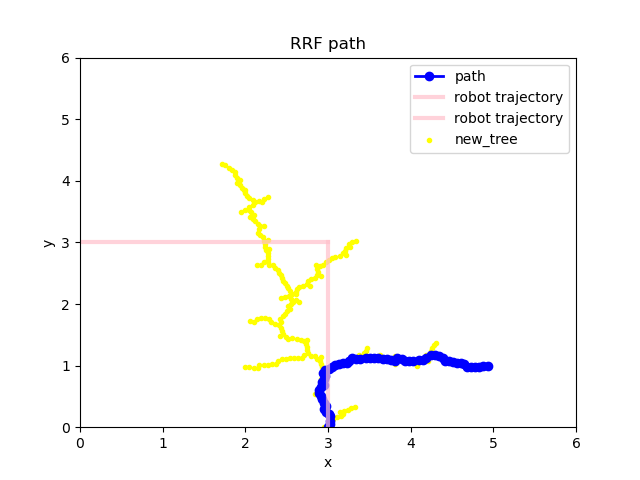
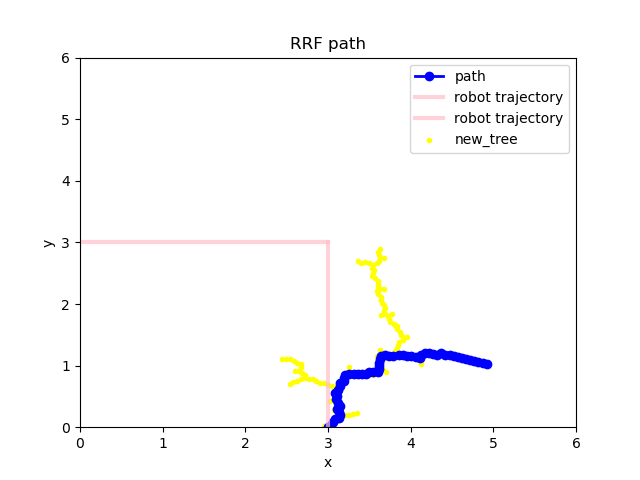
fix RRT* and update plots

Changed region(s): [[0.3438, 0.3438, 0.7812, 0.9062]]

diff --git a/tree_lib.py b/tree_lib.py
@@ -83,7 +83,7 @@ class Tree():
         self.node_list.append(child_node)
         self.coord_list.append(list(child_node.x))
         self.added_nodes.append(child_node)
-        # self.update_subtree(child_node, forest)
+        self.update_subtree(child_node, forest)
 
     def update_subtree(self, node, forest=None):
         if len(node.child_list) == 0:
@@ -96,22 +96,20 @@ class Tree():
                     child.v = new_car.v
                     child.theta = new_car.theta
                     child.cost = node.cost + distance
-                    self.node_list.append(child)
-                    self.coord_list.append(list(child.x))
-                    self.added_nodes.append(list(child.x))
+                    # self.node_list.append(child)
+                    # self.coord_list.append(list(child.x))
+                    # self.added_nodes.append(child)
                     self.update_subtree(child, forest)
                 except:
-                    if forest is None:
-                        if child.id != -1:
-                            self.remove_connection(node, child)
-                            self.remove_subtree(child)
+                    if child.id != -1:
+                        self.remove_connection(node, child)
+                        self.remove_subtree(child)
                     else:
                         continue
+                    continue
     
     def remove_connection(self, parent_node, child_node):
         parent_node.child_list.remove(child_node)
-        if child_node not in self.node_list:
-            print(f"child node with id {child_node.id} not in list. It is at {child_node.x}")
         self.node_list.remove(child_node)
         self.coord_list.remove(list(child_node.x))
         child_node.parent = None 
@@ -122,9 +120,6 @@ class Tree():
         # self.remove_connection(node.parent, node)
         for child in node.child_list:
             if child.id == -1:
-                continue
-            if child not in self.node_list:
-                print(f"child node with id {child.id} not in list. It is at {child.x}")
                 continue
             self.node_list.remove(child)
             self.coord_list.remove(list(child.x))
@@ -188,9 +183,9 @@ def random_config(tree, final_points, robot_state, check_goal=True, neighbourhoo
     p = random()                                                                            
     if check_goal and p <= constants.goal_prob:
         rand_node = Node(x = choice(final_points))                                                                                                                                                             
-    elif neighbourhood is not None and p <= constants.neigh_prob:
-        rand_choice = np.random.choice(neighbourhood)
-        rand_node = Node(x = rand_choice.x)
+    # elif neighbourhood is not None and p <= constants.neigh_prob:
+    #     rand_choice = np.random.choice(neighbourhood)
+    #     rand_node = Node(x = rand_choice.x)
     else:
         x_coord = round(uniform(0, constants.dimension_field[0]), 2)
         y_coord = round(uniform(0, constants.dimension_field[1]), 2)

diff --git a/RRFtest.py b/RRFtest.py
@@ -34,7 +34,7 @@ def plot_forest(forest, path = None):
 
     plt.xlabel('x')
     plt.ylabel('y')
-    plt.title('RRF path')
+    plt.title('Dynamic Path Planner')
     plt.legend()
     plt.show()
 
@@ -115,9 +115,9 @@ def RRF(robot_state, end_y, type="path"):
             plot_forest(forest)
 
 
-        if path is not None:
-            path_list.append(path.copy())
-        tree_list.append(new_tree.coord_list.copy())
+        # if path is not None:
+        #     path_list.append(path.copy())
+        # tree_list.append(new_tree.coord_list.copy())
         robot_state += constants.robot_velocity
     return tree_list, path_list, time_array
 
@@ -194,9 +194,9 @@ def RRFsim(robot_state, forest):
 
 if __name__ == "__main__":
     n_test = 10
-    end_y = 1.8
-    avg_time_path = np.zeros(9)
-    avg_time_tree = np.zeros(9)
+    end_y = 0.9
+    avg_time_path = np.zeros(10)
+    avg_time_tree = np.zeros(10)
     steps = int(end_y / constants.robot_velocity[1]) + 1
 
     for i in range(n_test):
@@ -207,13 +207,13 @@ if __name__ == "__main__":
     avg_time_path = avg_time_path / n_test
 
     for i in range(n_test):
-        ic_timetest = np.array([0, 0, 0, 1, np.pi / 2])
+        ic_timetest = np.array([0, 0, 0, 1, np.pi / 2, 10])
         _1, _2, time_array_iter = RRF(ic_timetest, end_y, type="tree")
         avg_time_tree += np.array(time_array_iter)
-        print("path", time_array_iter)
+        print("tree", time_array_iter)
     avg_time_tree = avg_time_tree / n_test
 
-    y_coords = np.arange(0, 9, 1)
+    y_coords = np.array([0, 0.1, 0.2, 0.3, 0.4, 0.5, 0.6, 0.7, 0.8, 0.9])
     plt.plot(y_coords, avg_time_path, "-o", label="path")
     plt.plot(y_coords, avg_time_tree, "-o", label="tree")
     plt.xlabel("position at which path found")

diff --git a/car_lib.py b/car_lib.py
@@ -52,7 +52,7 @@ class Car:
         des_direction = des_node.x - self.x
         alpha = ang_between(self.v, des_direction)
         dist_between_nodes = np.linalg.norm(des_direction)
-        if math.isclose(dist_between_nodes, 0.0):
+        if dist_between_nodes < 0.05 or dist_between_nodes > 0.08:
             return "invalid"
         omega = 2 * constants.car_velocity * np.sin(alpha) / dist_between_nodes
         # if abs(omega) > constants.max_turn_rate or abs(alpha) > np.pi / 2:
@@ -68,7 +68,7 @@ class Car:
         else:
             time_taken = dist_between_nodes / constants.car_velocity
         new_x = des_node.x
-        distance = time_taken * constants.car_velocity
+        distance = time_taken * constants.car_velocity * constants.distance_to_power
         new_v = rotate(self.v, 2 * alpha, constants.car_velocity)
         new_theta = self.theta + omega * time_taken
         new_car = Car(new_x, new_v, new_theta)

diff --git a/constants.py b/constants.py
@@ -2,11 +2,11 @@ import numpy as np
 pi = np.pi
 
 car_length = 1
-car_velocity = 0.2
+car_velocity = 0.1
 max_ster_angle = 40 * pi / 180
 max_turn_rate = np.tan(max_ster_angle) * car_velocity / car_length
 robot_velocity = car_velocity * np.array([0, 1, 0, 0, 0, 0])
-distance_to_power = 1
+distance_to_power = 0.5
 safety_factor = 80
 robot_power_onion = -30
 initial_power = 20
@@ -18,13 +18,13 @@ k_max = 2500
 
 forest_neighbour = 0.08
 forest_trees = 2
-scan_forest_prob = 1
+scan_forest_prob = 0.7
 
 dimension_field = np.array([6, 6])
 obstacle_line = []
-# obstacle_line = [np.array([0.7, 1, 1.3, 1])]
-recharge_points = [np.array([5, 1]), np.array([1, 5])]
-# recharge_points = [np.array([2, 1.5]), np.array([2, 3.5])]
+# obstacle_line = [np.array([2, 0, 2, 2]), np.array([2, 2, 3, 2])]
+# recharge_points = [np.array([3, 1])]
+recharge_points = [np.array([1, 5]), np.array([5, 1])]
 
 goal_prob = 0.2
 neigh_prob = 0.0

diff --git a/RRTtest.py b/RRTtest.py
@@ -57,7 +57,7 @@ def plot_tree(tree, path):
 
     plt.xlabel('x')
     plt.ylabel('y')
-    plt.title('RRT path')
+    plt.title('RRT* path')
     plt.legend()
     plt.show()
 
@@ -84,7 +84,7 @@ def RRTsim(initial_node, final_points, power):
         if tree_lib.is_obstacle_free(parent_node, rand_node):
             tree.insert_node(parent_node, rand_node)
             k += 1
-            tree.rewire(neighbourhood, rand_node)
+            # tree.rewire(neighbourhood, rand_node)
             if reached_at_recharge(rand_node, power):
                 doRRT = False
                 path = tree.get_path(rand_node)

diff --git a/forest_lib.py b/forest_lib.py
@@ -85,7 +85,7 @@ class Forest:
             # if child_node_old in old_path:
             #     old_path.remove(child_node_old)
             child_node_new = tree_lib.Node(x=child_car_new.x, v=child_car_new.v,
-             theta=child_car_new.theta, cost=(link_node_new_tree.cost + distance))
+            theta=child_car_new.theta, cost=(link_node_new_tree.cost + distance))
             self.tree_building(link_node_new_tree, child_node_old, child_node_new)
 
     def path_building(self, new_node, link_node_old_tree, link_node_new_tree):
